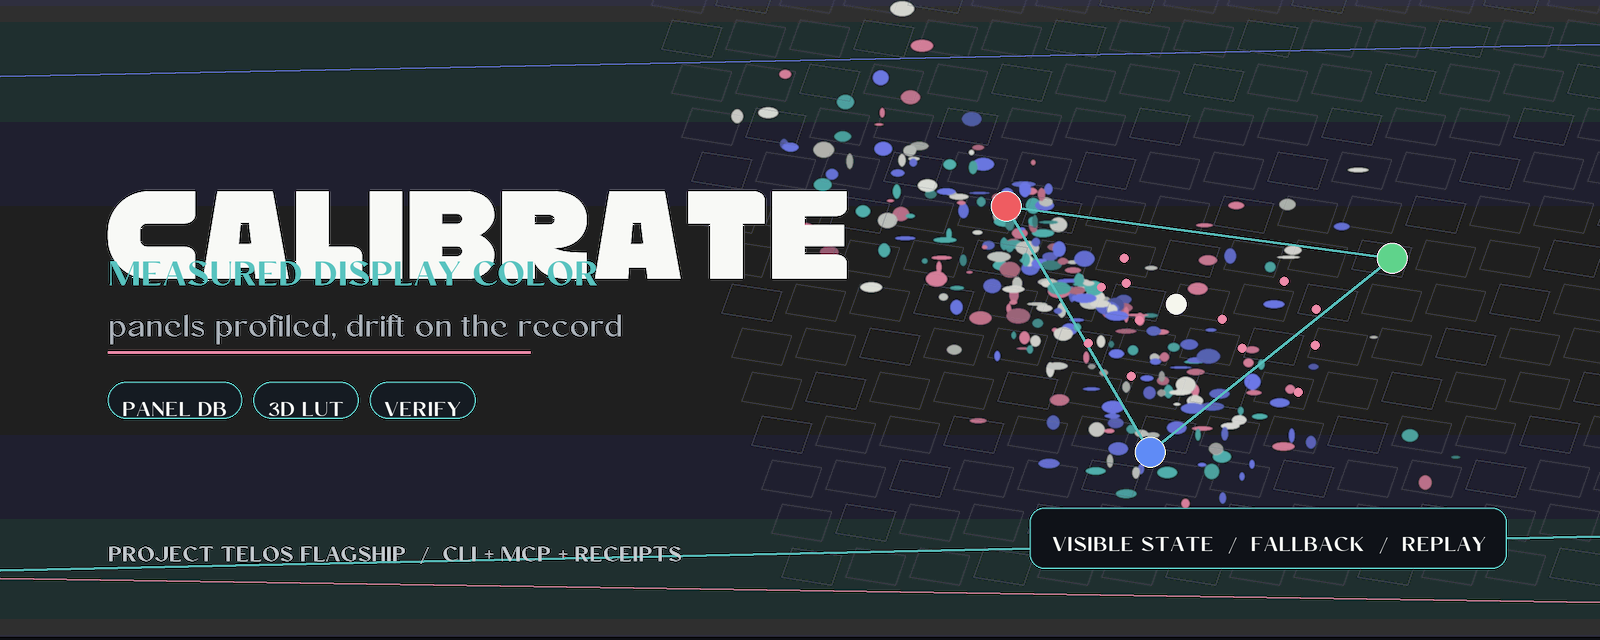
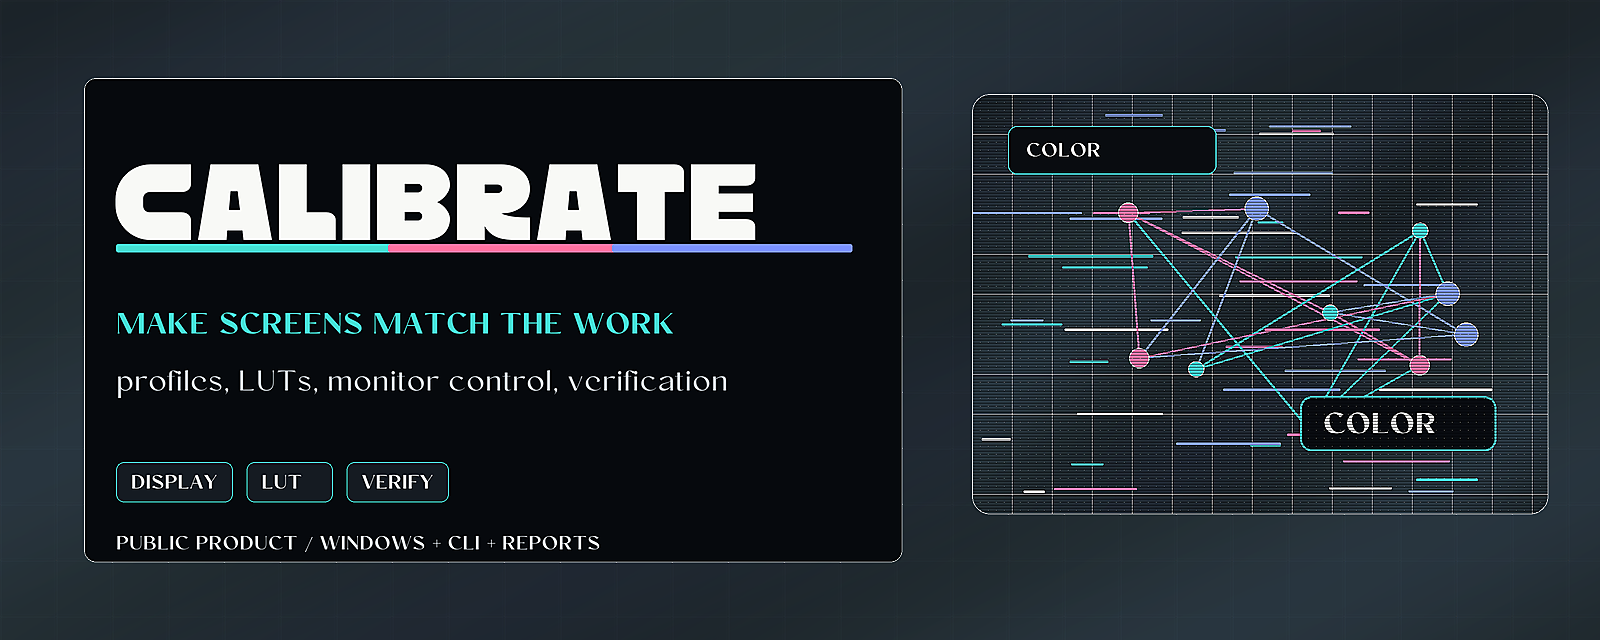
Improve public product presentation

diff --git a/README.md b/README.md
@@ -1,11 +1,11 @@
 <p align="center">
-  <img src="docs/brand/calibrate-pro-hero.png" alt="Calibrate Pro, a Project Telos flagship for measured display color">
+  <img src="docs/brand/calibrate-pro-hero.png" alt="Calibrate Pro, make screens match the work with profiles, LUTs, and verification">
 </p>
 <!-- Project mark: docs/brand/calibrate-pro-mark.svg -->
 
 # Calibrate Pro
 
-> Windows display-calibration toolkit for sensorless profiles, measured workflows, DDC/CI monitor control, ICC/3D-LUT output, and verification reports.
+> Make screens match the work with profiles, LUTs, monitor control, and verification reports.
 
 [Project Telos](https://harperz9.github.io) | [gather](https://github.com/HarperZ9/gather) | [crucible](https://github.com/HarperZ9/crucible) | [index](https://github.com/HarperZ9/index) | [forum](https://github.com/HarperZ9/forum) | [telos](https://github.com/HarperZ9/telos) | [calibrate-pro](https://github.com/HarperZ9/calibrate-pro)
 
@@ -16,6 +16,26 @@
 [![part of: Project Telos](https://img.shields.io/badge/part_of-Project_Telos-4636e8.svg)](https://harperz9.github.io)
 
 Calibrate Pro detects your monitors, identifies their panel characteristics from a database of 58 characterized displays, and applies color corrections via DDC/CI hardware adjustments and 3D LUTs. Works without a colorimeter (sensorless mode) or with an i1Display3 for measured accuracy with CCMX spectral correction.
+
+## Try it
+
+```bash
+calibrate-pro detect
+calibrate-pro status
+calibrate-pro verify
+```
+
+Install from the Windows release build or run from source with `pip install -e ".[all]"`.
+
+## Why it matters
+
+Display color is part of the creative pipeline. If the screen is wrong, every design, render, photo, video grade, and model-generated visual can be judged against a bad reference. Calibrate Pro gives a practical path to better display behavior, records what changed, and keeps verification close to the profile.
+
+## What to test first
+
+- Run `calibrate-pro detect` and confirm the tool identifies your displays and available DDC/CI controls.
+- Run `calibrate-pro status` to check whether an existing profile is present and how old it is.
+- Run `calibrate-pro verify` after calibration and inspect the report instead of trusting the adjustment blindly.
 
 ## Current status
 

diff --git a/docs/brand/README.md b/docs/brand/README.md
@@ -1,13 +1,15 @@
 # Calibrate Pro Brand Assets
 
-The README hero image in this folder was rendered as part of the Project Telos flagship presentation pass.
+The README hero image in this folder was refreshed on 2026-06-29 as part of the Project Telos product presentation pass.
 
 ## Rendering Receipt
 
 - Source contract: `telos.rendering.research` in the Telos repository.
-- Visual research lane: Gaussian-splatting fields, clustered-forward lighting grids, visible state overlays, and receipt-first UI composition.
-- Product role: measured display calibration and verification.
-- Tool-specific motif: panel gamut arcs, calibration target, and a measured-color readout.
+- Renderer: `project-telos.brand-render/v2`, using `telos/tools/product_brand_config.json`.
+- Visual research lane: Gaussian-splatting fields, clustered-forward lighting grids, visible state overlays, retro CGI texture, dithering, and receipt-first UI composition.
+- Critique lane: `r/design`, `r/design_critiques`, and `r/posterdesign` are used as non-evidentiary presentation references for hierarchy, focal control, poster readability, and effect restraint.
+- Product role: display calibration, LUT generation, monitor control, and verification reports.
+- Tool-specific motif: color-volume/gamut view, measured target, and verification label.
 - Typography: rendered locally from the operator-owned Kilon and Conso font packages. The public repository carries only the exported artwork, not the purchased font files.
-- Accessibility floor: high-contrast foreground text, non-color-only status labels, and static PNG fallback for GitHub and low-capability hosts.
+- Accessibility floor: high-contrast foreground text, a solid no-texture text field, non-color-only status labels, and static PNG fallback for GitHub and low-capability hosts.
 - Provenance boundary: Reddit and community links are treated as non-evidentiary source leads; implementation claims resolve through lawful papers, standards, official repositories, and repeatable local checks.
